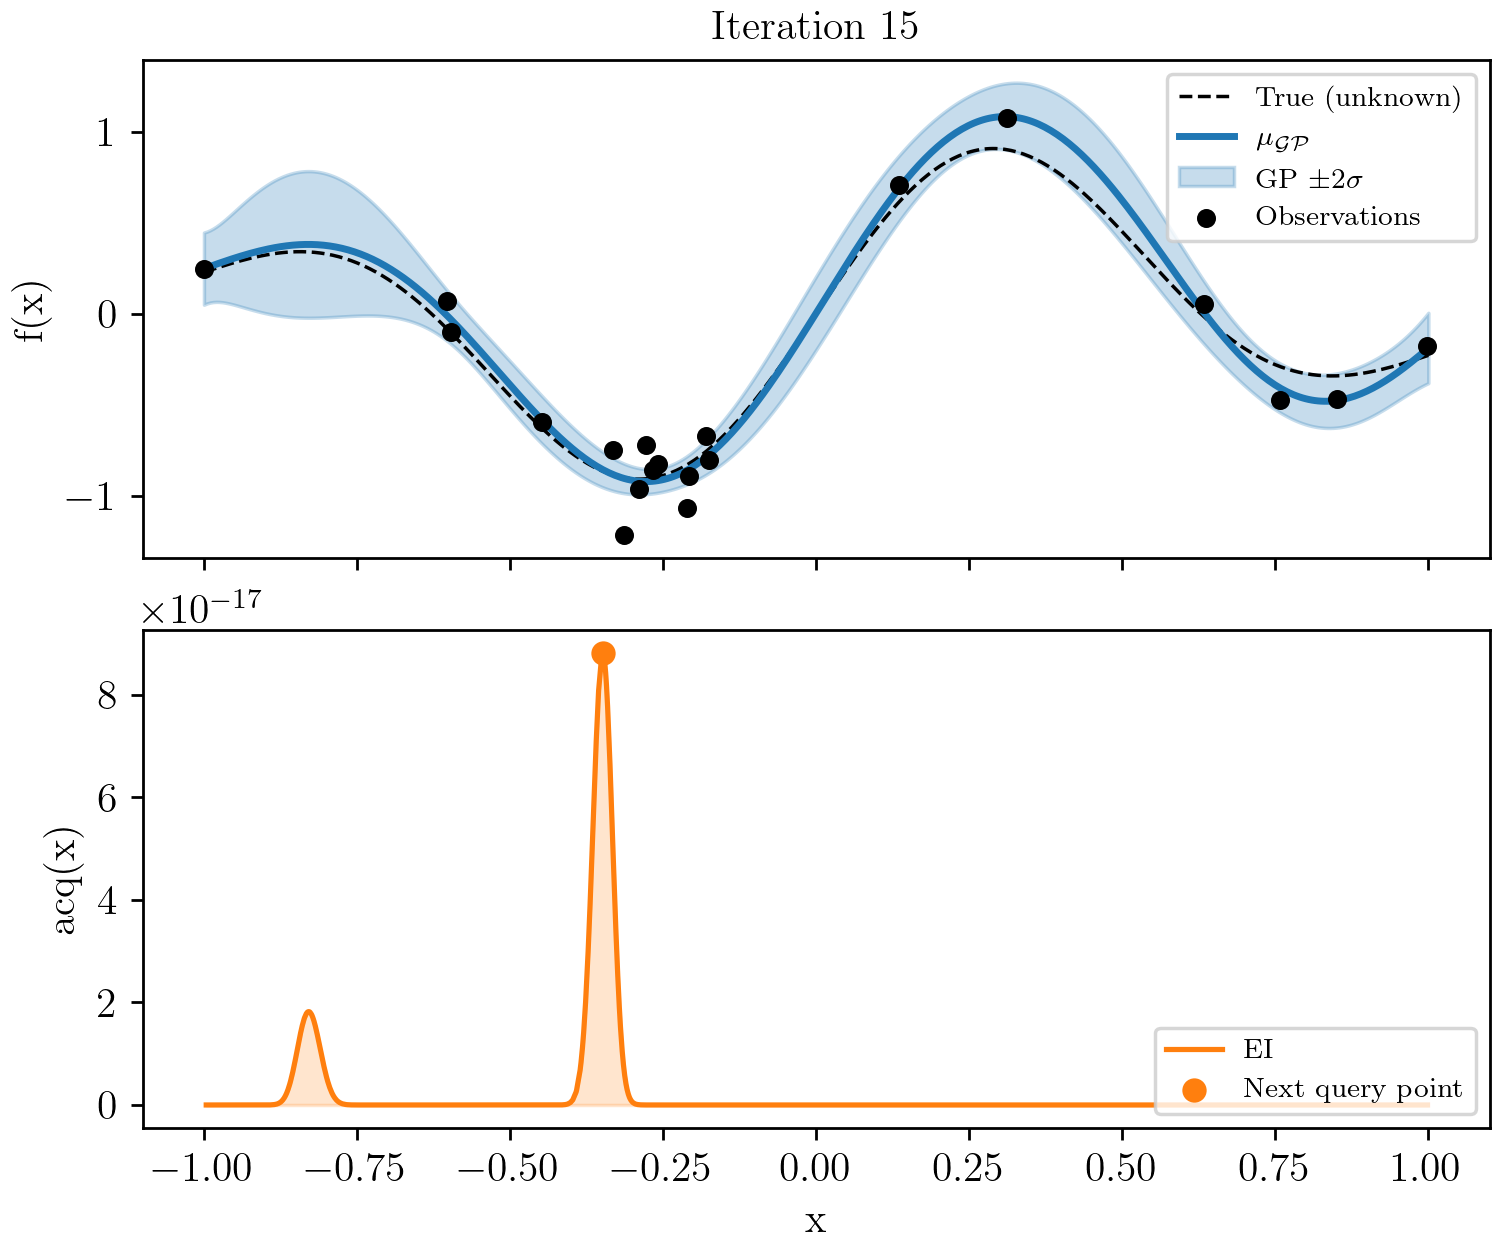
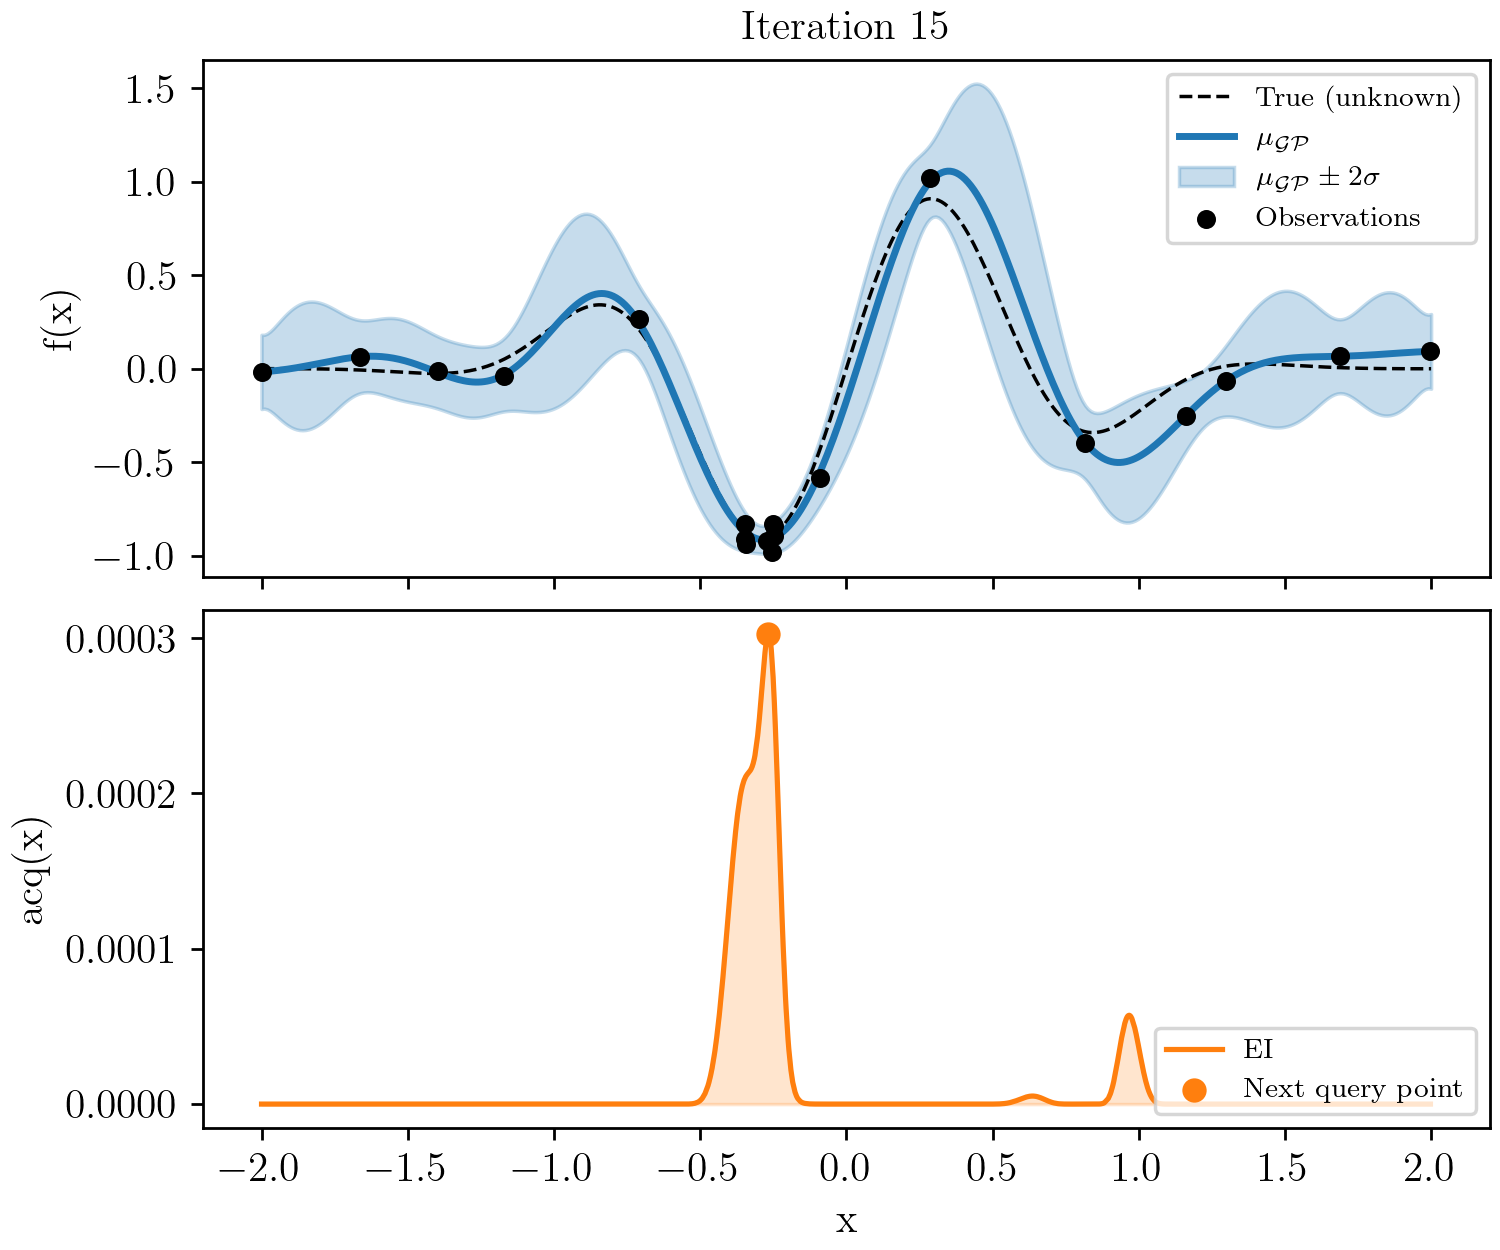
commit

diff --git a/1D_Test_CASE.py b/1D_Test_CASE.py
@@ -44,14 +44,14 @@ plt.show()
 
 #%%
 
-LL = 1 # size of the domain
+LL = 2 # size of the domain
 bounds = [(-LL, LL)] # Define the bounds of the function
 
 
 res = bo.bayesian_optimization(
     f=func,
     bounds=bounds,
-    bo_cfg=bo.BOConfig(),
+    bo_cfg=bo.BOConfig(random_state=237),
     gp_cfg=bo.GPConfig(),
     acq_cfg=bo.AcqConfig(),
     optim_cfg=bo.OptimConfig(),

diff --git a/BO_ML4F.py b/BO_ML4F.py
@@ -729,7 +729,7 @@ def plt_state(
         mu + 2 * std,
         color="C0",
         alpha=0.25,
-        label="\\mu_{\\mathcal{GP}} $\\pm 2 \\sigma$",
+        label="$\\mu_{\\mathcal{GP}} \\pm 2 \\sigma$",
     )
     axs[0].scatter(Xs, ys, c="k", s=20, zorder=10, label="Observations")
 

diff --git a/3_Bayesian_Optimization_Scipy_Optimize.py b/3_Bayesian_Optimization_Scipy_Optimize.py
@@ -125,6 +125,6 @@ for k in range(n_iter):
 
 imageio.mimsave(GIFNAME, images,duration=0.8)
 import shutil  # nice and powerfull tool to delete a folder and its content
-shutil.rmtree(FOLDER)
+# shutil.rmtree(FOLDER)
 
 
